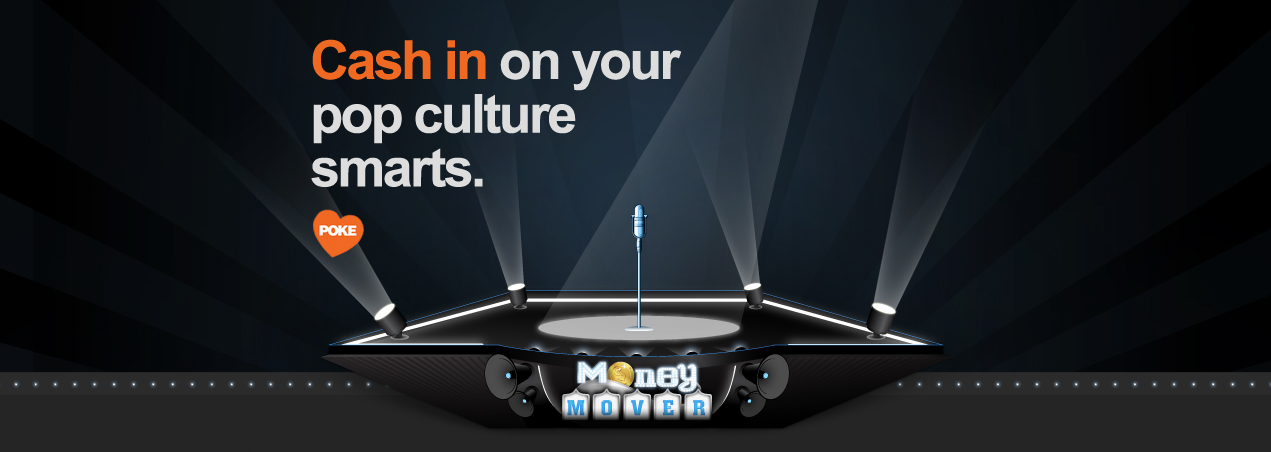
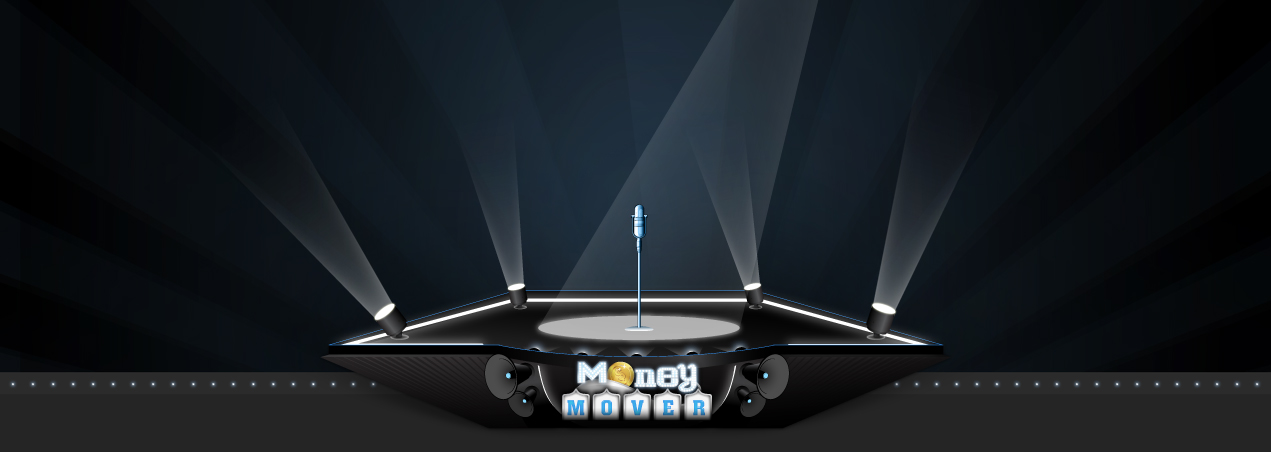
Added smaller mainImage, text-based headline for most sizes

diff --git a/amex/serve/index.html b/amex/serve/index.html
@@ -27,10 +27,17 @@
 			width: 100%;
 			height: 640px;
 		}
+		
+		#mainImageExtension {
+			background: #000000 url(images/extension.jpg) top center;
+			background-repeat: repeat;
+			width: 100%;
+			height: 640px;
+		}
 
 		#containerServe {
 			position: relative;
-			top: -30px;
+			margin-top: -330px;
 		}
 
 		#headerServe {
@@ -38,11 +45,15 @@
 	    	width: 100%;
 			font-size: 55pt;
 			font-weight: bold;
-			color: #848484;
+			color: #dddddd;
 			line-height: 95%;
 			letter-spacing: -2px;
 			position: relative;
-			top: -360px;
+			top: -580px;
+		}
+
+		.heartSK {
+			margin-top: 18px;
 		}
 
 		.bigBorderServeSK {
@@ -64,6 +75,18 @@
 				top: -5px;
 			}
 
+			#headerServe {
+		 		font-size: 39pt;
+				top: -416px;
+				left: 10px;
+			}
+		  
+			.heartSK {
+				width: 54px;
+				height: 51px;
+				margin-top: 11px;
+			}
+
 			.bigBorderServeSK {
 				height: 386px;
 			}
@@ -81,6 +104,18 @@
 				top: -20px;
 			}
 
+			#headerServe {
+				font-size: 25pt;
+				top: -135px;
+				left: 10px;
+			}
+			
+			.heartSK {
+				width: 37px;
+				height: 35px;
+				margin-top: 4px;
+			}
+
 			.bigBorderServeSK {
 				height: 237px;
 			}
@@ -96,6 +131,19 @@
 			#containerServe {
 				position: relative;
 				top: 0px;
+			}
+			
+			#headerCW {
+				font-size: 30pt;
+				top: -300px;
+				left: 10px;
+				letter-spacing: -1px;
+			}
+
+			.heartSK {
+				width: 36px;
+				height: 34px;
+				margin-top: 8px;
 			}
 
 			.bigBorderServeSK {
@@ -195,7 +243,7 @@
 				<a href="#">Cash in</a> on your<br />
 				pop culture<br />
 				smarts.<br />
-				<img src="../images/pokeHeart_transparent.png" alt="pokeHeart_transparent" class="heartSK" />
+				<img src="../../images/pokeHeart_transparent.png" alt="pokeHeart_transparent" class="heartSK" />
 		</div>
 
   <div class="sixteen columns" id="containerServe">
